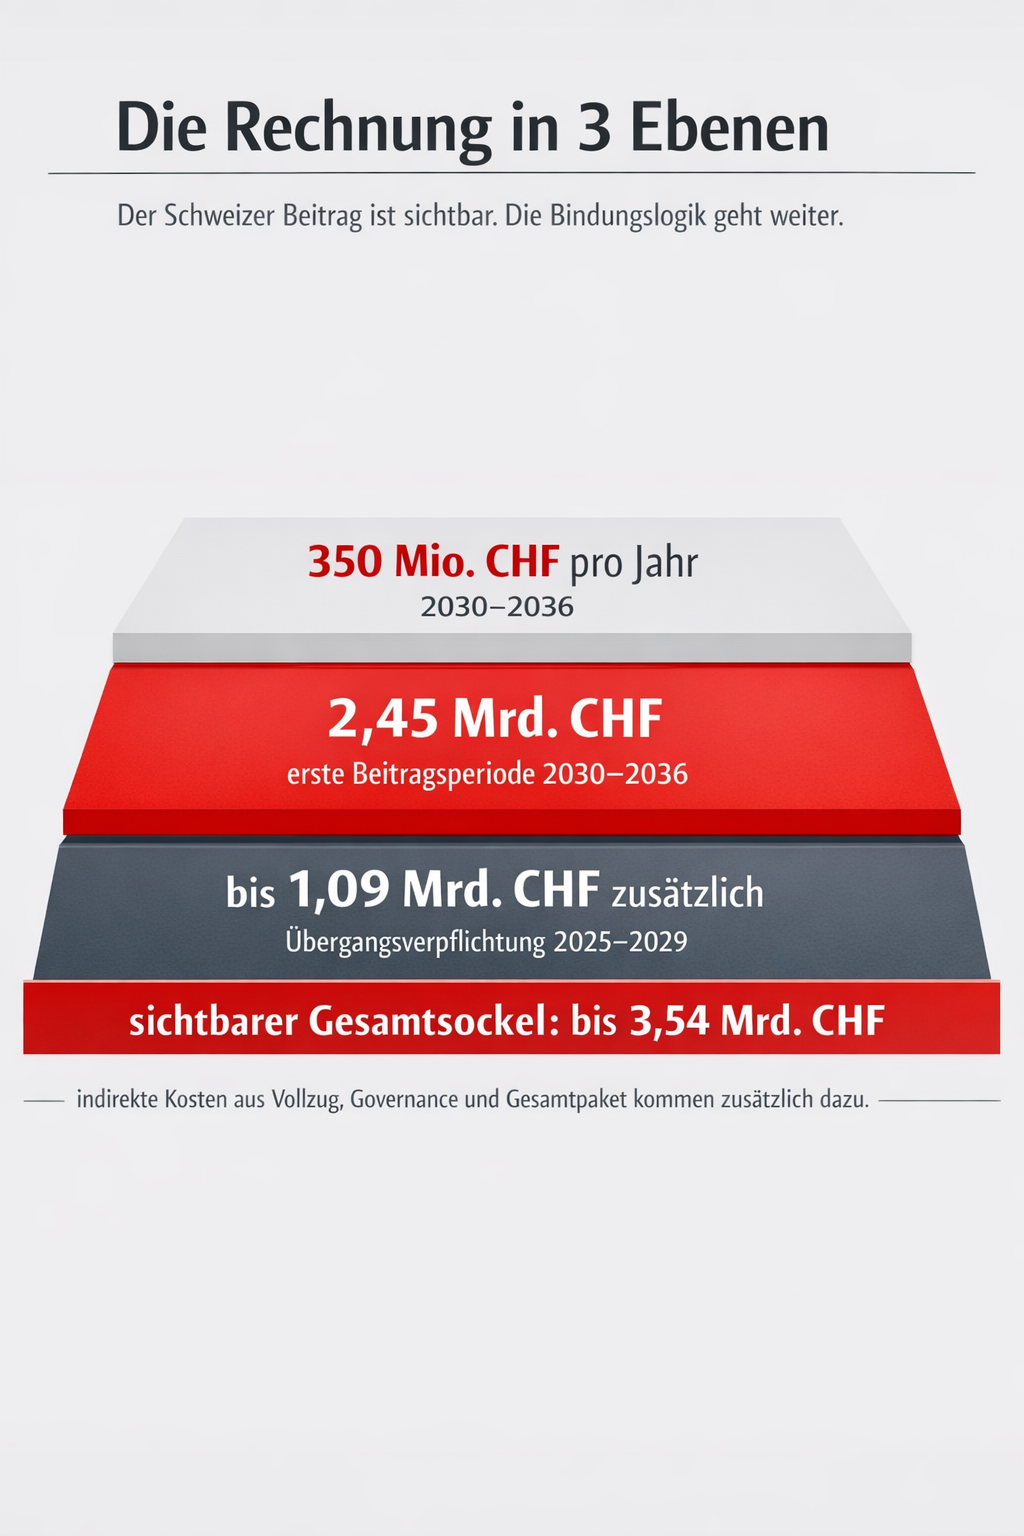
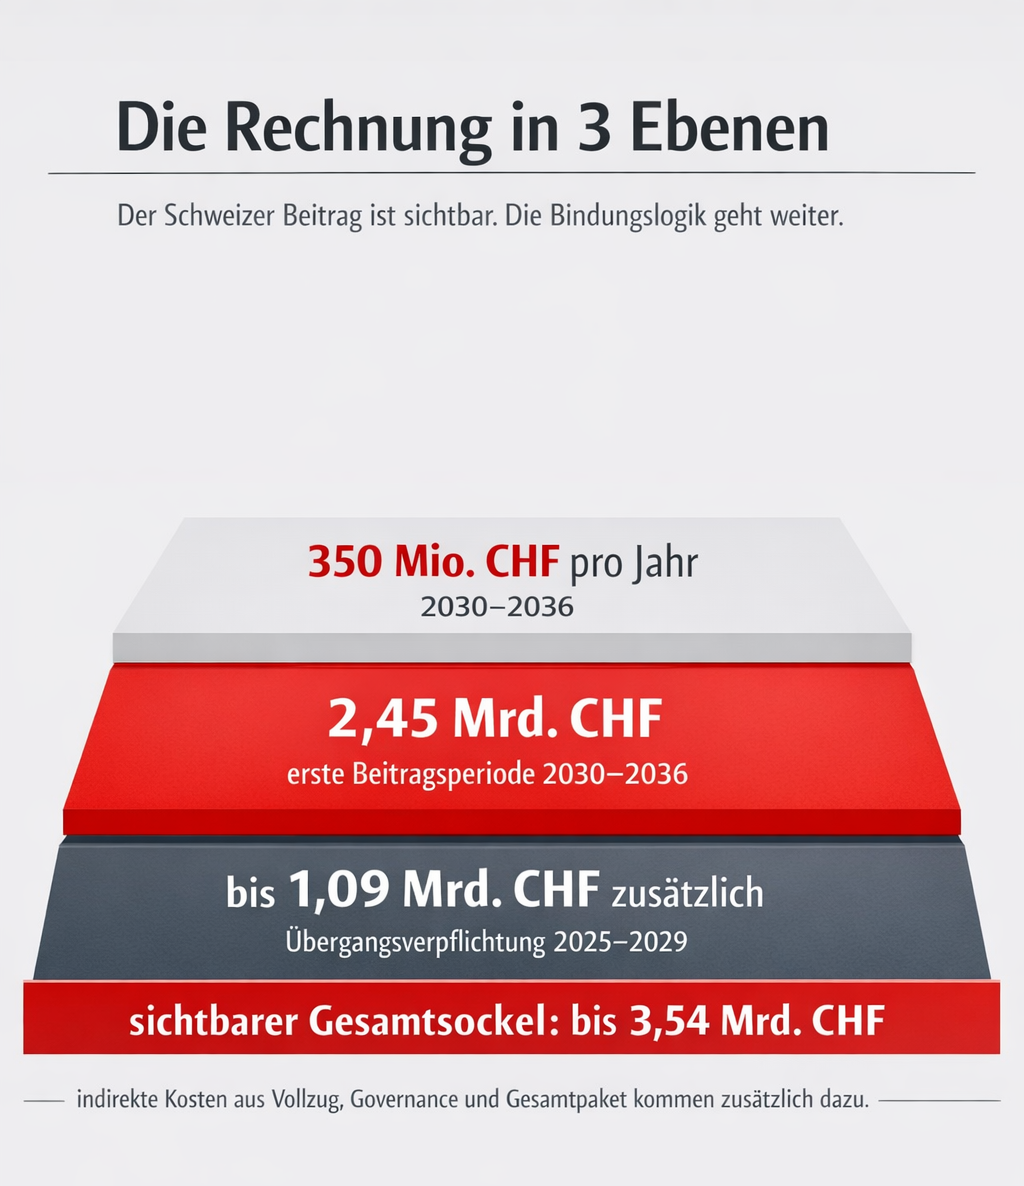
Lightbox: Grafiken auf allen Seiten anklickbar/vergrösserbar
- assets/lb.js: leichtes Lightbox-Script (Klick öffnet, Klick/Esc schliesst)
- style.css: #lb-overlay CSS hinzugefügt
- Alle 28 HTML-Seiten: <script src="lb.js"> eingebunden

diff --git a/assets/lb.js b/assets/lb.js
@@ -1,0 +1,45 @@
+/* ── Lightbox ── */
+(function () {
+  var overlay, img;
+
+  function build() {
+    overlay = document.createElement('div');
+    overlay.id = 'lb-overlay';
+    overlay.innerHTML = '<img id="lb-img" alt="" />';
+    document.body.appendChild(overlay);
+    img = overlay.querySelector('#lb-img');
+    overlay.addEventListener('click', close);
+    document.addEventListener('keydown', function (e) {
+      if (e.key === 'Escape') close();
+    });
+  }
+
+  function open(src, alt) {
+    if (!overlay) build();
+    img.src = src;
+    img.alt = alt || '';
+    overlay.classList.add('lb-open');
+    document.body.style.overflow = 'hidden';
+  }
+
+  function close() {
+    if (!overlay) return;
+    overlay.classList.remove('lb-open');
+    document.body.style.overflow = '';
+  }
+
+  function init() {
+    document.querySelectorAll('figure img, .kostenhammer-img, .sb-figure img').forEach(function (el) {
+      el.style.cursor = 'zoom-in';
+      el.addEventListener('click', function () {
+        open(el.src, el.alt);
+      });
+    });
+  }
+
+  if (document.readyState === 'loading') {
+    document.addEventListener('DOMContentLoaded', init);
+  } else {
+    init();
+  }
+})();

diff --git a/style.css b/style.css
@@ -317,3 +317,26 @@ footer {
   .footer-bottom { flex-direction: column; }
   .footer-links { gap: 1rem; }
 }
+
+/* ── LIGHTBOX ── */
+#lb-overlay {
+  display: none;
+  position: fixed;
+  inset: 0;
+  background: rgba(0,0,0,0.88);
+  z-index: 9999;
+  align-items: center;
+  justify-content: center;
+  cursor: zoom-out;
+  padding: 2rem;
+  box-sizing: border-box;
+}
+#lb-overlay.lb-open { display: flex; }
+#lb-img {
+  max-width: 100%;
+  max-height: 90vh;
+  border-radius: 4px;
+  box-shadow: 0 8px 48px rgba(0,0,0,0.6);
+  object-fit: contain;
+  cursor: zoom-out;
+}

diff --git a/10mio/timeline.html b/10mio/timeline.html
@@ -650,5 +650,6 @@
   });
 </script>
 <script data-goatcounter="https://souveraene-schweiz.goatcounter.com/count" async src="//gc.zgo.at/count.js"></script>
+<script src="../assets/lb.js"></script>
 </body>
 </html>

diff --git a/ch-eu/binnenmarkt.html b/ch-eu/binnenmarkt.html
@@ -132,5 +132,6 @@
   });
 </script>
 <script data-goatcounter="https://souveraene-schweiz.goatcounter.com/count" async src="//gc.zgo.at/count.js"></script>
+<script src="../assets/lb.js"></script>
 </body>
 </html>

diff --git a/ch-eu/eu-programme.html b/ch-eu/eu-programme.html
@@ -132,5 +132,6 @@
   });
 </script>
 <script data-goatcounter="https://souveraene-schweiz.goatcounter.com/count" async src="//gc.zgo.at/count.js"></script>
+<script src="../assets/lb.js"></script>
 </body>
 </html>

diff --git a/ch-eu/forschung.html b/ch-eu/forschung.html
@@ -132,5 +132,6 @@
   });
 </script>
 <script data-goatcounter="https://souveraene-schweiz.goatcounter.com/count" async src="//gc.zgo.at/count.js"></script>
+<script src="../assets/lb.js"></script>
 </body>
 </html>

diff --git a/ch-eu/gesundheit.html b/ch-eu/gesundheit.html
@@ -132,5 +132,6 @@
   });
 </script>
 <script data-goatcounter="https://souveraene-schweiz.goatcounter.com/count" async src="//gc.zgo.at/count.js"></script>
+<script src="../assets/lb.js"></script>
 </body>
 </html>

diff --git a/ch-eu/landverkehr.html b/ch-eu/landverkehr.html
@@ -132,5 +132,6 @@
   });
 </script>
 <script data-goatcounter="https://souveraene-schweiz.goatcounter.com/count" async src="//gc.zgo.at/count.js"></script>
+<script src="../assets/lb.js"></script>
 </body>
 </html>

diff --git a/ch-eu/landwirtschaft.html b/ch-eu/landwirtschaft.html
@@ -132,5 +132,6 @@
   });
 </script>
 <script data-goatcounter="https://souveraene-schweiz.goatcounter.com/count" async src="//gc.zgo.at/count.js"></script>
+<script src="../assets/lb.js"></script>
 </body>
 </html>

diff --git a/ch-eu/lebensmittelsicherheit.html b/ch-eu/lebensmittelsicherheit.html
@@ -132,5 +132,6 @@
   });
 </script>
 <script data-goatcounter="https://souveraene-schweiz.goatcounter.com/count" async src="//gc.zgo.at/count.js"></script>
+<script src="../assets/lb.js"></script>
 </body>
 </html>

diff --git a/ch-eu/luftverkehr.html b/ch-eu/luftverkehr.html
@@ -132,5 +132,6 @@
   });
 </script>
 <script data-goatcounter="https://souveraene-schweiz.goatcounter.com/count" async src="//gc.zgo.at/count.js"></script>
+<script src="../assets/lb.js"></script>
 </body>
 </html>

diff --git a/ch-eu/mra.html b/ch-eu/mra.html
@@ -132,5 +132,6 @@
   });
 </script>
 <script data-goatcounter="https://souveraene-schweiz.goatcounter.com/count" async src="//gc.zgo.at/count.js"></script>
+<script src="../assets/lb.js"></script>
 </body>
 </html>
